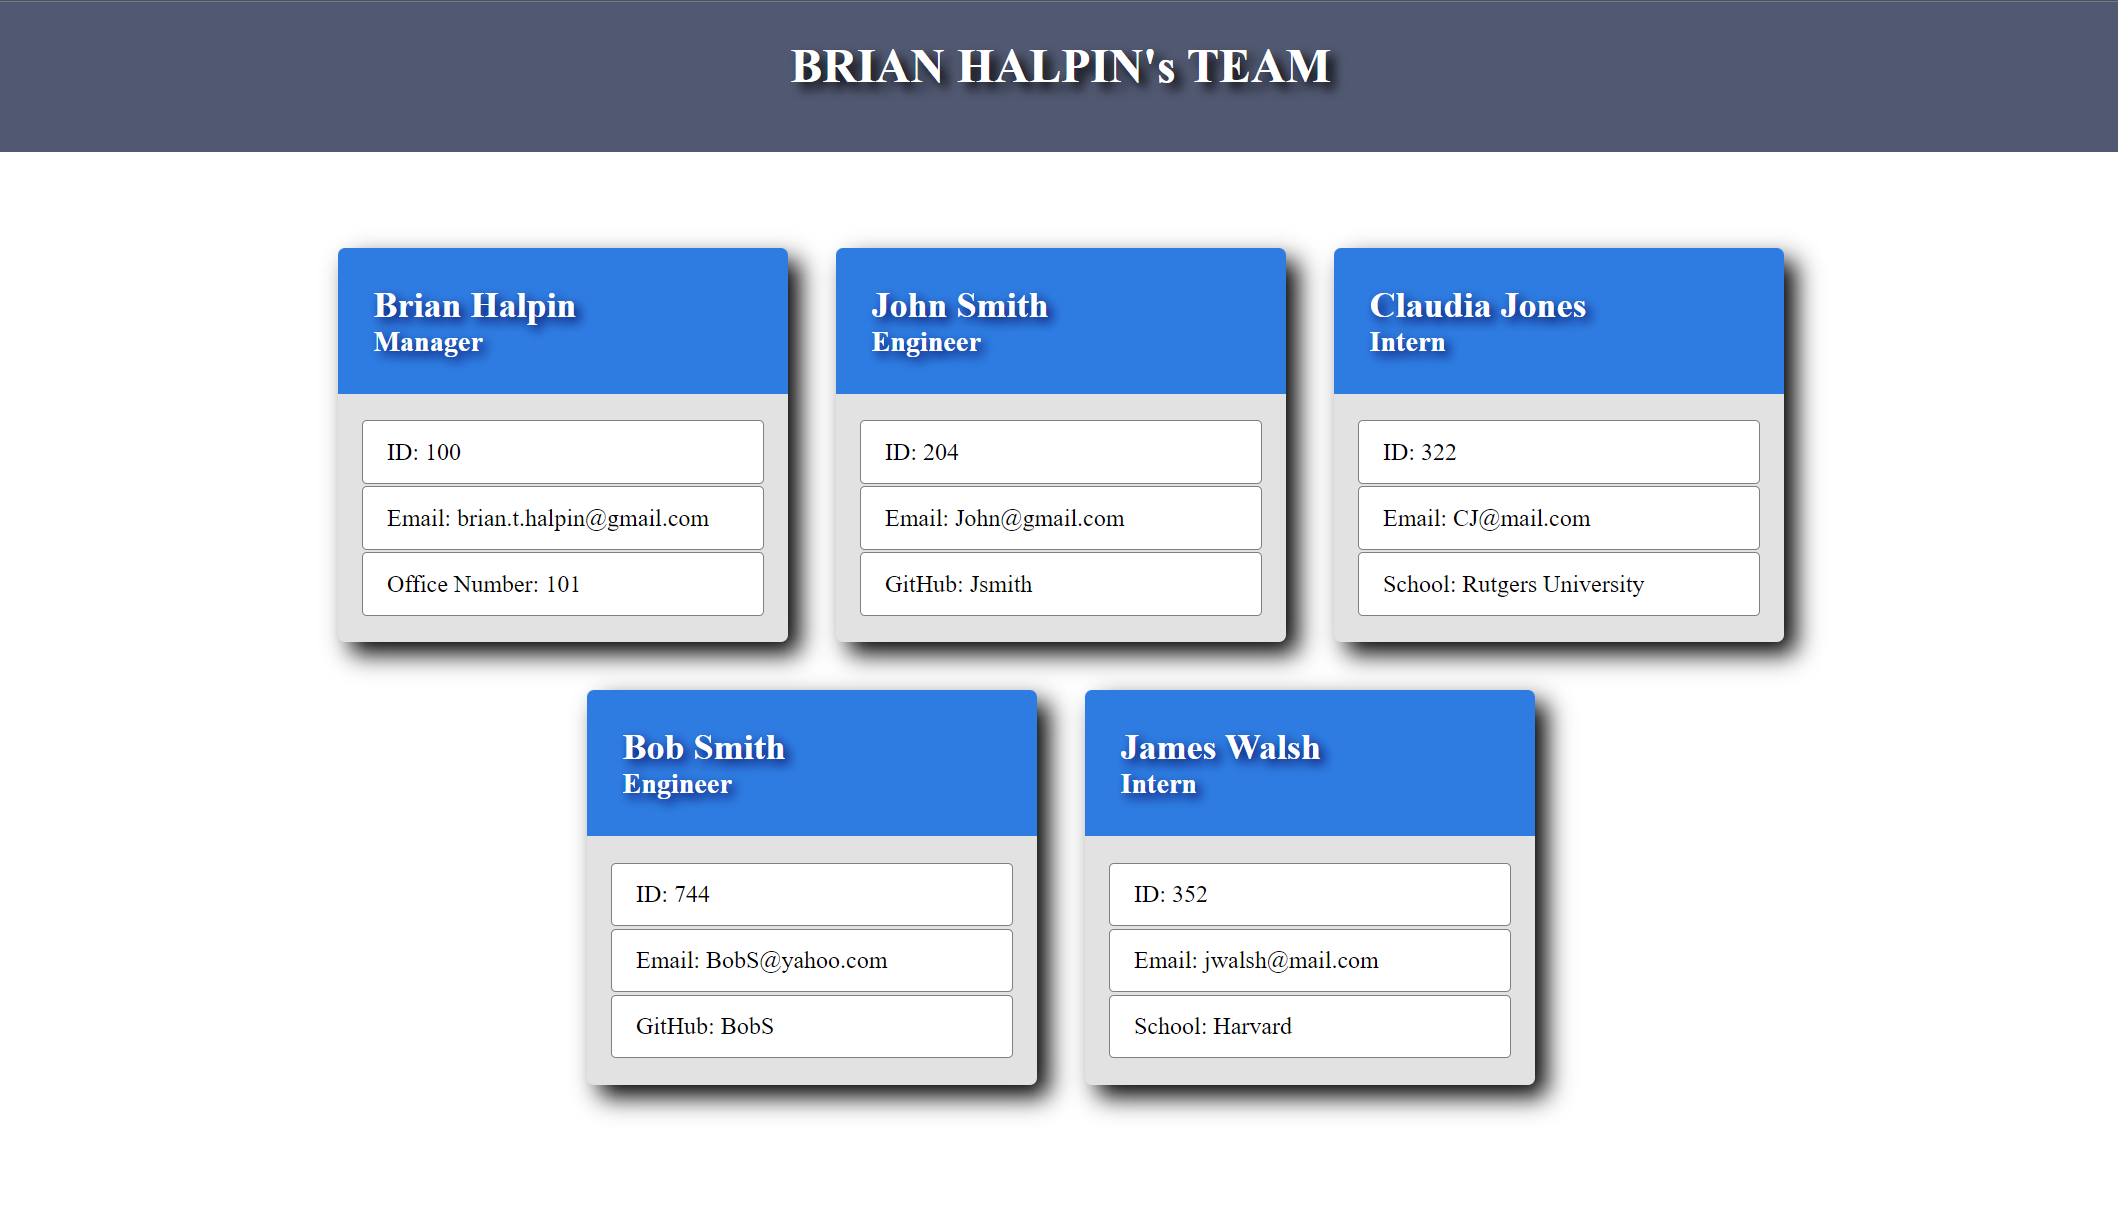
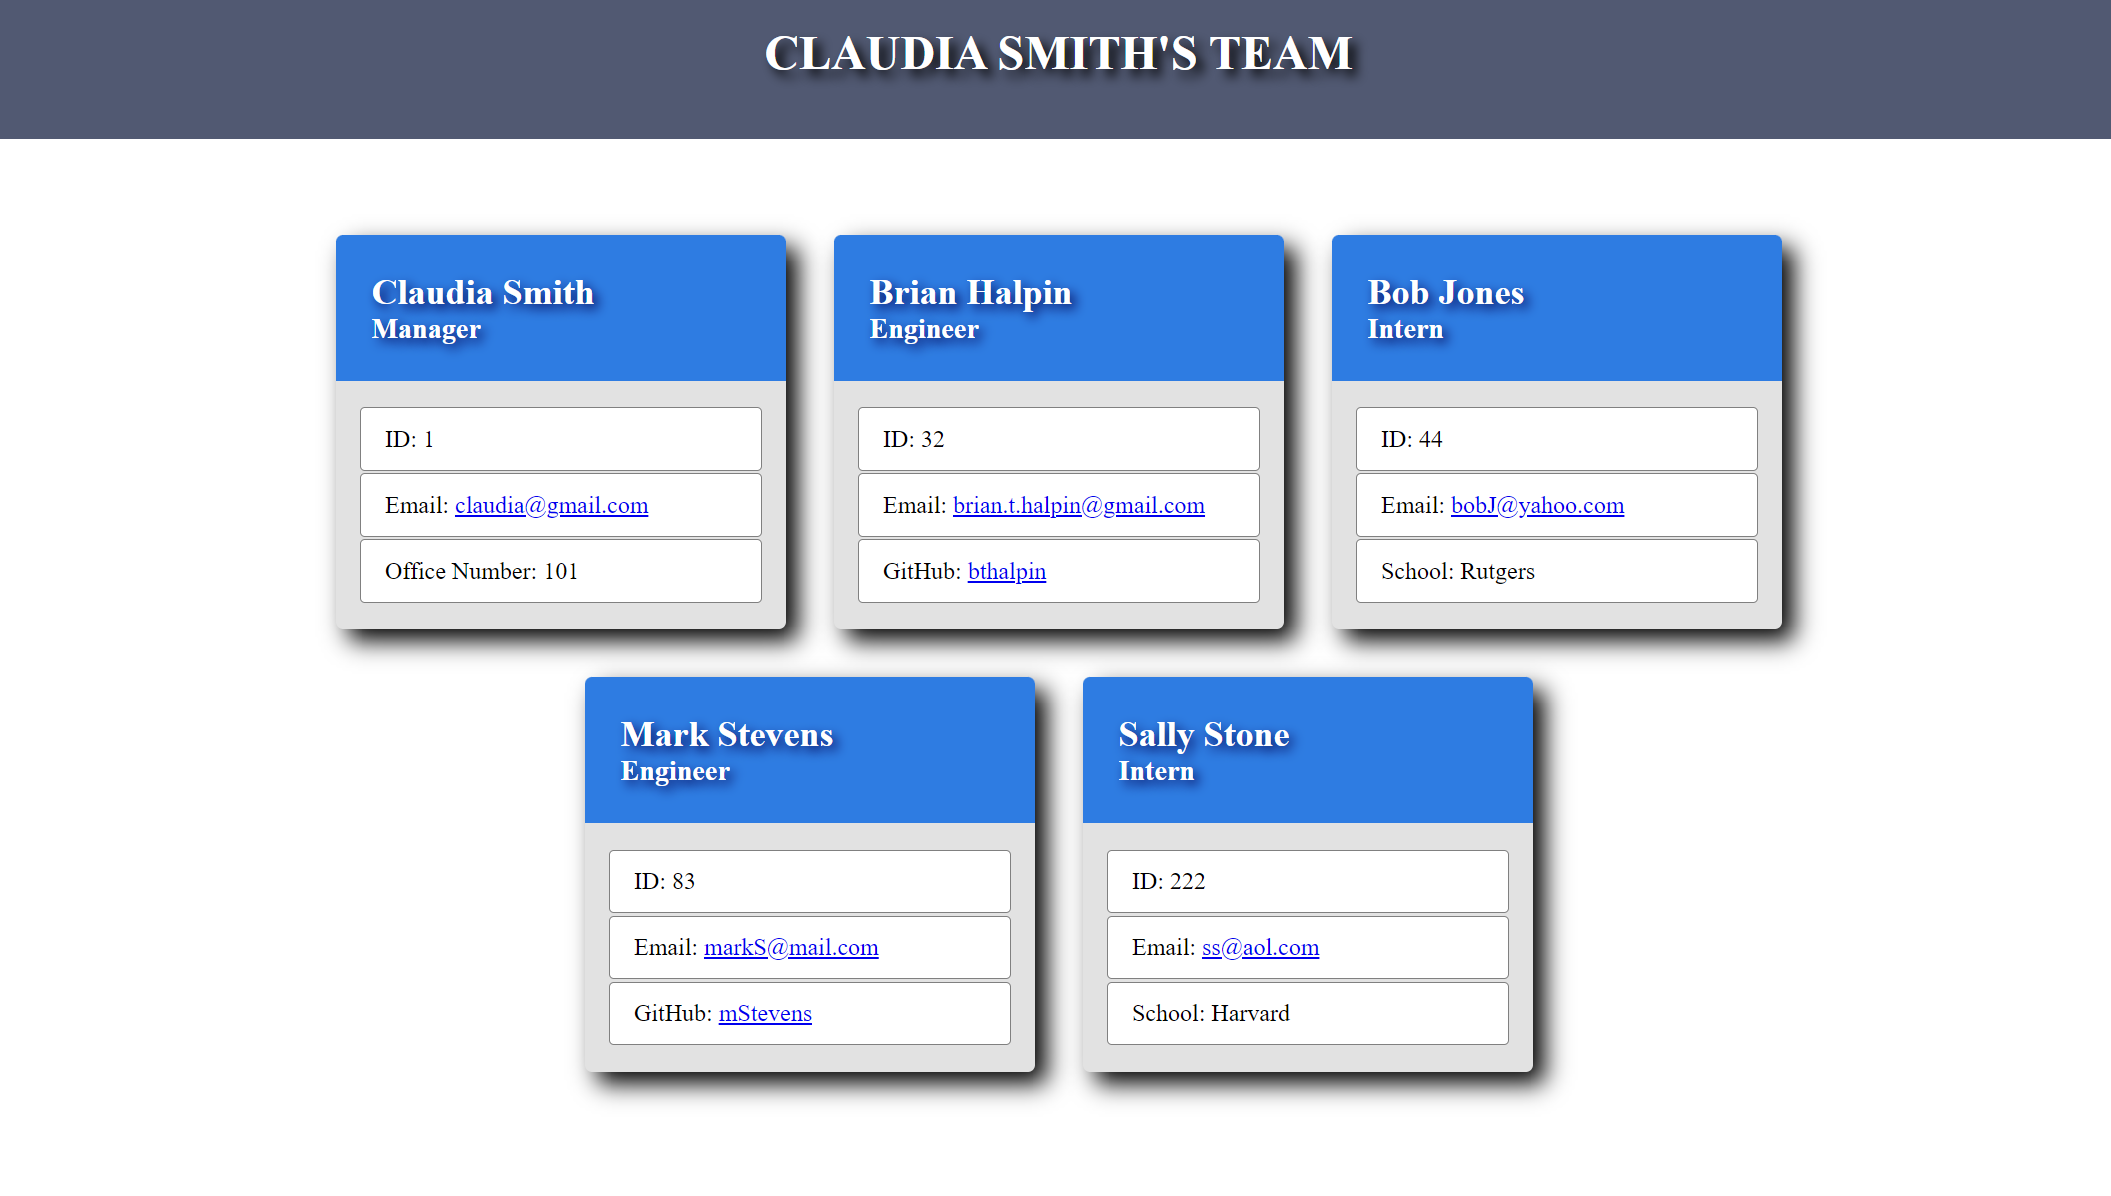
Add link to email and github

Changed region(s): [[0.154, 0.1856, 0.8622, 0.9281], [0.0, 0.0309, 1.0, 0.1237]]

diff --git a/assets/sample/team.html b/assets/sample/team.html
@@ -4,26 +4,26 @@
         <meta charset="UTF-8">
         <meta http-equiv="X-UA-Compatible" content="IE=edge">
         <meta name="viewport" content="width=device-width, initial-scale=1.0">
-        <title>BRIAN HALPIN'S TEAM</title>
+        <title>CLAUDIA SMITH'S TEAM</title>
         <link rel="stylesheet" href="./style.css">
     </head>
     <body>
         <header>
-            <h1>BRIAN HALPIN'S TEAM</h1>
+            <h1>CLAUDIA SMITH'S TEAM</h1>
         </header>
         <main class="container">
             <section class="card-container">
                 <section class="card">
                     <section class="card-head">
-                        <h2>Brian Halpin</h2>
+                        <h2>Claudia Smith</h2>
                         <h3>Manager</h3>
                     </section>
                     <section class="card-content">
                         
                         <section>
                             <ul>
-                                <li>ID: 100</li>
-                                <li>Email: brian.t.halpin@gmail.com</li>
+                                <li>ID: 1</li>
+                                <li>Email: <a href="mailto:claudia@gmail.com">claudia@gmail.com</a></li>
                                 <li>Office Number: 101</li>
                             </ul>
                         </section>
@@ -31,63 +31,63 @@
                 </section>
 <section class="card">
                     <section class="card-head">
-                        <h2>John Smith</h2>
+                        <h2>Brian Halpin</h2>
                         <h3>Engineer</h3>
                     </section>
                     <section class="card-content">
                         
                         <section>
                             <ul>
-                                <li>ID: 204</li>
-                                <li>Email: John@gmail.com</li>
-                                <li>GitHub: Jsmith</li>
+                                <li>ID: 32</li>
+                                <li>Email: <a href="mailto:brian.t.halpin@gmail.com">brian.t.halpin@gmail.com</a></li>
+                                <li>GitHub: <a href='https://github.com/bthalpin'>bthalpin</a></li>
                             </ul>
                         </section>
                     </section>
                 </section>
 <section class="card">
                     <section class="card-head">
-                        <h2>Claudia Jones</h2>
+                        <h2>Bob Jones</h2>
                         <h3>Intern</h3>
                     </section>
                     <section class="card-content">
                         
                         <section>
                             <ul>
-                                <li>ID: 322</li>
-                                <li>Email: CJ@mail.com</li>
-                                <li>School: Rutgers University</li>
+                                <li>ID: 44</li>
+                                <li>Email: <a href="mailto:bobJ@yahoo.com">bobJ@yahoo.com</a></li>
+                                <li>School: Rutgers</li>
                             </ul>
                         </section>
                     </section>
                 </section>
 <section class="card">
                     <section class="card-head">
-                        <h2>Bob Smith</h2>
+                        <h2>Mark Stevens</h2>
                         <h3>Engineer</h3>
                     </section>
                     <section class="card-content">
                         
                         <section>
                             <ul>
-                                <li>ID: 744</li>
-                                <li>Email: BobS@yahoo.com</li>
-                                <li>GitHub: BobS</li>
+                                <li>ID: 83</li>
+                                <li>Email: <a href="mailto:markS@mail.com">markS@mail.com</a></li>
+                                <li>GitHub: <a href='https://github.com/mStevens'>mStevens</a></li>
                             </ul>
                         </section>
                     </section>
                 </section>
 <section class="card">
                     <section class="card-head">
-                        <h2>James Walsh</h2>
+                        <h2>Sally Stone</h2>
                         <h3>Intern</h3>
                     </section>
                     <section class="card-content">
                         
                         <section>
                             <ul>
-                                <li>ID: 352</li>
-                                <li>Email: jwalsh@mail.com</li>
+                                <li>ID: 222</li>
+                                <li>Email: <a href="mailto:ss@aol.com">ss@aol.com</a></li>
                                 <li>School: Harvard</li>
                             </ul>
                         </section>

diff --git a/dist/team.html b/dist/team.html
@@ -4,26 +4,26 @@
         <meta charset="UTF-8">
         <meta http-equiv="X-UA-Compatible" content="IE=edge">
         <meta name="viewport" content="width=device-width, initial-scale=1.0">
-        <title>BRIAN HALPIN'S TEAM</title>
+        <title>CLAUDIA SMITH'S TEAM</title>
         <link rel="stylesheet" href="./style.css">
     </head>
     <body>
         <header>
-            <h1>BRIAN HALPIN'S TEAM</h1>
+            <h1>CLAUDIA SMITH'S TEAM</h1>
         </header>
         <main class="container">
             <section class="card-container">
                 <section class="card">
                     <section class="card-head">
-                        <h2>Brian Halpin</h2>
+                        <h2>Claudia Smith</h2>
                         <h3>Manager</h3>
                     </section>
                     <section class="card-content">
                         
                         <section>
                             <ul>
-                                <li>ID: 100</li>
-                                <li>Email: brian.t.halpin@gmail.com</li>
+                                <li>ID: 1</li>
+                                <li>Email: <a href="mailto:claudia@gmail.com">claudia@gmail.com</a></li>
                                 <li>Office Number: 101</li>
                             </ul>
                         </section>
@@ -31,63 +31,63 @@
                 </section>
 <section class="card">
                     <section class="card-head">
-                        <h2>John Smith</h2>
+                        <h2>Brian Halpin</h2>
                         <h3>Engineer</h3>
                     </section>
                     <section class="card-content">
                         
                         <section>
                             <ul>
-                                <li>ID: 204</li>
-                                <li>Email: John@gmail.com</li>
-                                <li>GitHub: Jsmith</li>
+                                <li>ID: 32</li>
+                                <li>Email: <a href="mailto:brian.t.halpin@gmail.com">brian.t.halpin@gmail.com</a></li>
+                                <li>GitHub: <a href='https://github.com/bthalpin'>bthalpin</a></li>
                             </ul>
                         </section>
                     </section>
                 </section>
 <section class="card">
                     <section class="card-head">
-                        <h2>Claudia Jones</h2>
+                        <h2>Bob Jones</h2>
                         <h3>Intern</h3>
                     </section>
                     <section class="card-content">
                         
                         <section>
                             <ul>
-                                <li>ID: 322</li>
-                                <li>Email: CJ@mail.com</li>
-                                <li>School: Rutgers University</li>
+                                <li>ID: 44</li>
+                                <li>Email: <a href="mailto:bobJ@yahoo.com">bobJ@yahoo.com</a></li>
+                                <li>School: Rutgers</li>
                             </ul>
                         </section>
                     </section>
                 </section>
 <section class="card">
                     <section class="card-head">
-                        <h2>Bob Smith</h2>
+                        <h2>Mark Stevens</h2>
                         <h3>Engineer</h3>
                     </section>
                     <section class="card-content">
                         
                         <section>
                             <ul>
-                                <li>ID: 744</li>
-                                <li>Email: BobS@yahoo.com</li>
-                                <li>GitHub: BobS</li>
+                                <li>ID: 83</li>
+                                <li>Email: <a href="mailto:markS@mail.com">markS@mail.com</a></li>
+                                <li>GitHub: <a href='https://github.com/mStevens'>mStevens</a></li>
                             </ul>
                         </section>
                     </section>
                 </section>
 <section class="card">
                     <section class="card-head">
-                        <h2>James Walsh</h2>
+                        <h2>Sally Stone</h2>
                         <h3>Intern</h3>
                     </section>
                     <section class="card-content">
                         
                         <section>
                             <ul>
-                                <li>ID: 352</li>
-                                <li>Email: jwalsh@mail.com</li>
+                                <li>ID: 222</li>
+                                <li>Email: <a href="mailto:ss@aol.com">ss@aol.com</a></li>
                                 <li>School: Harvard</li>
                             </ul>
                         </section>

diff --git a/src/templates/html/card.js b/src/templates/html/card.js
@@ -5,7 +5,8 @@ const card = (employee) =>{
     if (employee.getRole() === 'Manager'){
         roleSpecificVariable = 'Office Number: '+employee.getOfficeNumber();
     }else if (employee.getRole()==='Engineer'){
-        roleSpecificVariable = 'GitHub: '+employee.getGithub()
+        roleSpecificVariable = `GitHub: <a href='https://github.com/${employee.getGithub()}'>${employee.getGithub()}</a>`
+        
     }else{
         roleSpecificVariable = 'School: '+employee.getSchool()
     }
@@ -22,7 +23,7 @@ const card = (employee) =>{
                         <section>
                             <ul>
                                 <li>ID: ${employee.getId()}</li>
-                                <li>Email: ${employee.getEmail()}</li>
+                                <li>Email: <a href="mailto:${employee.getEmail()}">${employee.getEmail()}</a></li>
                                 <li>${roleSpecificVariable}</li>
                             </ul>
                         </section>

diff --git a/src/templates/css/cssTemplate.js b/src/templates/css/cssTemplate.js
@@ -4,7 +4,6 @@ const cssPage = () => {
     margin:0;
     padding:0;
     box-sizing: border-box;
-    color:white;
 }
 header{
     width:100vw;
@@ -17,6 +16,7 @@ header{
 header>h1{
     padding:1.5rem 0;
     background-color: rgb(81, 89, 114);
+    color:white;
 }
 
 .container{
@@ -36,17 +36,14 @@ header>h1{
 .card-head{
     background-color: rgb(46, 124, 226);
     padding:1.5rem;
-    
+    color:white;
     border-radius: 0.3rem 0.3rem 0 0;
 }
 .card-head>*{
     text-shadow: 0.2rem 0.2rem 0.5rem rgb(1, 1, 82);
 }
 .card-content{
-    /* height:80%; */
-    padding:1rem;
-
-    
+    padding:1rem;  
 }
 .card-content ul{
     list-style-type: none;
@@ -56,9 +53,10 @@ header>h1{
     margin:0.1rem 0;
     border:1px solid rgb(128, 128, 128);
     background-color: white;
-    color:black;
     border-radius: 0.2rem;
 }
+
+
 
 @media screen and (min-width:500px) {
     .card-container{

diff --git a/assets/sample/style.css b/assets/sample/style.css
@@ -2,7 +2,6 @@
     margin:0;
     padding:0;
     box-sizing: border-box;
-    color:white;
 }
 header{
     width:100vw;
@@ -15,6 +14,7 @@ header{
 header>h1{
     padding:1.5rem 0;
     background-color: rgb(81, 89, 114);
+    color:white;
 }
 
 .container{
@@ -34,17 +34,14 @@ header>h1{
 .card-head{
     background-color: rgb(46, 124, 226);
     padding:1.5rem;
-    
+    color:white;
     border-radius: 0.3rem 0.3rem 0 0;
 }
 .card-head>*{
     text-shadow: 0.2rem 0.2rem 0.5rem rgb(1, 1, 82);
 }
 .card-content{
-    /* height:80%; */
-    padding:1rem;
-
-    
+    padding:1rem;  
 }
 .card-content ul{
     list-style-type: none;
@@ -54,9 +51,10 @@ header>h1{
     margin:0.1rem 0;
     border:1px solid rgb(128, 128, 128);
     background-color: white;
-    color:black;
     border-radius: 0.2rem;
 }
+
+
 
 @media screen and (min-width:500px) {
     .card-container{

diff --git a/dist/style.css b/dist/style.css
@@ -2,7 +2,6 @@
     margin:0;
     padding:0;
     box-sizing: border-box;
-    color:white;
 }
 header{
     width:100vw;
@@ -15,6 +14,7 @@ header{
 header>h1{
     padding:1.5rem 0;
     background-color: rgb(81, 89, 114);
+    color:white;
 }
 
 .container{
@@ -34,17 +34,14 @@ header>h1{
 .card-head{
     background-color: rgb(46, 124, 226);
     padding:1.5rem;
-    
+    color:white;
     border-radius: 0.3rem 0.3rem 0 0;
 }
 .card-head>*{
     text-shadow: 0.2rem 0.2rem 0.5rem rgb(1, 1, 82);
 }
 .card-content{
-    /* height:80%; */
-    padding:1rem;
-
-    
+    padding:1rem;  
 }
 .card-content ul{
     list-style-type: none;
@@ -54,9 +51,10 @@ header>h1{
     margin:0.1rem 0;
     border:1px solid rgb(128, 128, 128);
     background-color: white;
-    color:black;
     border-radius: 0.2rem;
 }
+
+
 
 @media screen and (min-width:500px) {
     .card-container{
